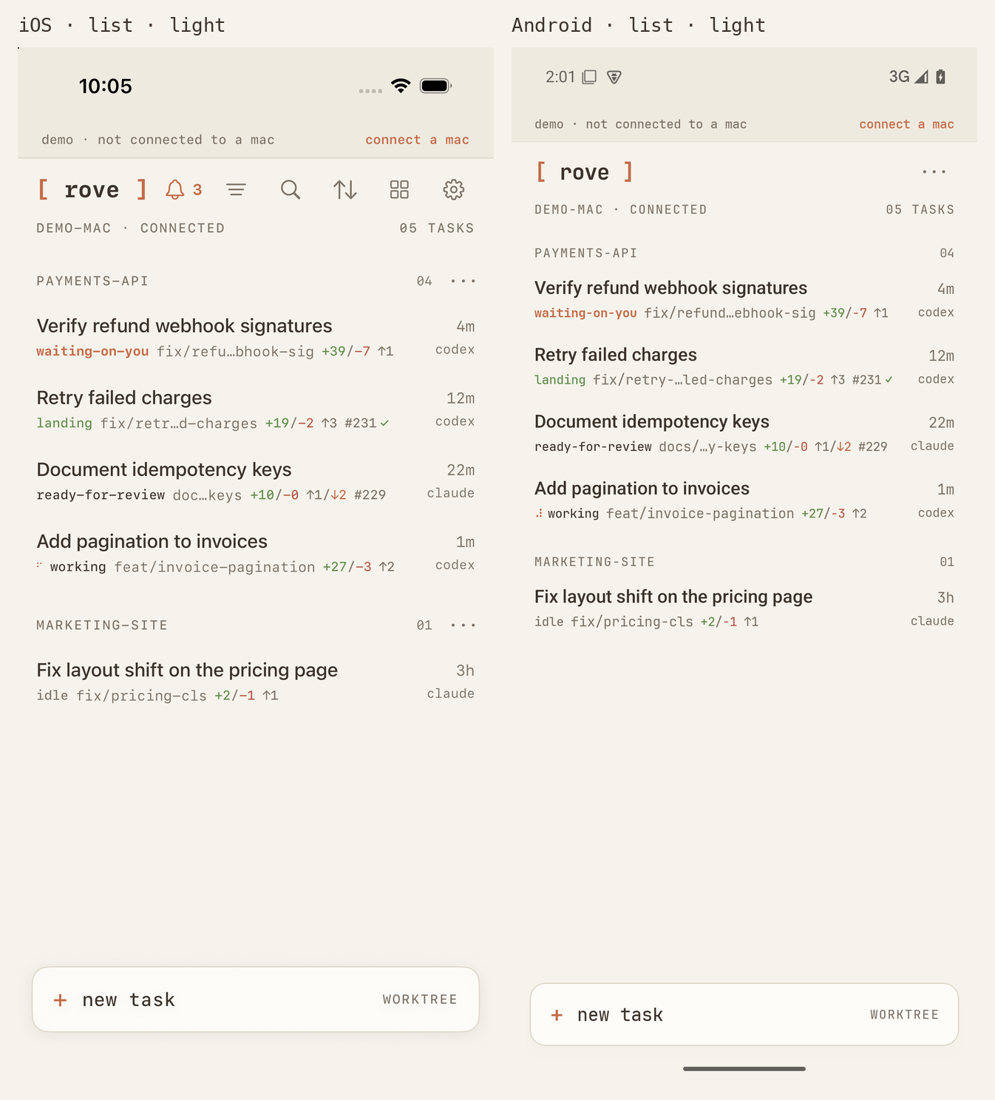
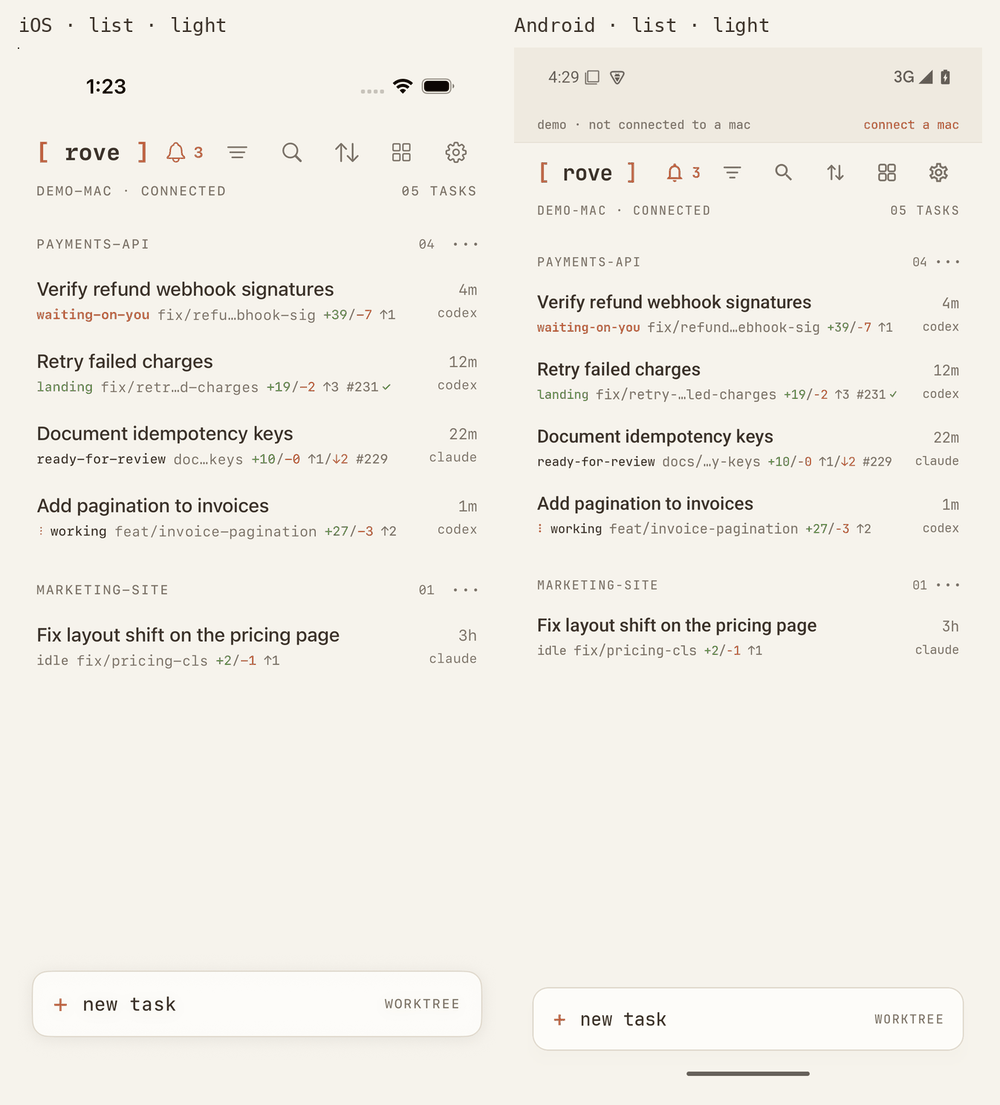
docs(android): page parity frames and settings-owned notification permission
Adds iOS/Android side-by-sides for inbox, settings, board, routines, issues and worktrees, and refreshes the list frames for the new header. ANDROID.md lists the pages and says the notification permission is asked from Settings.

diff --git a/docs/ANDROID.md b/docs/ANDROID.md
@@ -2,7 +2,7 @@
 
 Rove for Android is a Kotlin and Jetpack Compose client in `packages/rove-android`. It speaks bridge protocol version 1, shared with [iOS](IOS.md), and makes no daemon, bridge, or iOS changes. The Mac owns tasks and PTYs; Android holds pairing credentials and transient screen state.
 
-This draft implements pairing by paste, QR scan or deep link, task attention ordering, terminal tabs, a control-key row and line composer, new engine tabs, branch and working-tree diffs, new tasks, two-step land/delete confirmations, local notifications, and the shared offline demo.
+This draft implements pairing by paste, QR scan or deep link, task attention ordering, terminal tabs, a control-key row and line composer, image/PDF attachments, new engine tabs, branch and working-tree diffs, new tasks, two-step land/delete confirmations, local notifications, and the shared offline demo. The list header opens the same pages as iOS: inbox, settings (bridge, usage, engines, plugins, notifications, worktrees, activity, feedback, about), board, routines, GitHub issues and worktrees.
 
 ## Build
 
@@ -97,6 +97,6 @@ Known gaps:
 - Test replay plus live output, split Unicode bytes, alternate screen, scrollback, tab switching and reconnect during output. Verify leaving a tab detaches without terminating its PTY.
 - Compare Fit and Watch against the desktop. Fit intentionally resizes the shared PTY. Watch does not yet scale to the remote column count.
 - Create a task and tab in a sandbox, inspect a real diff, cancel both destructive confirmation stages, and verify dirty-task deletion is refused.
-- Grant/deny notifications and drive the required task transitions. Background delivery is best-effort while the process is alive; no FCM or foreground service is implemented.
+- Turn notifications on in **settings → notifications**; the app asks for the Android 13+ permission there, not at launch. Grant/deny it and drive the required task transitions. Background delivery is best-effort while the process is alive; no FCM or foreground service is implemented.
 
 The terminal control-row placement is proposed for owner acceptance. This draft does not change desktop shortcuts. Publishing this page through the docs site's sync list is deferred because this task is restricted to the Android package and this document.
